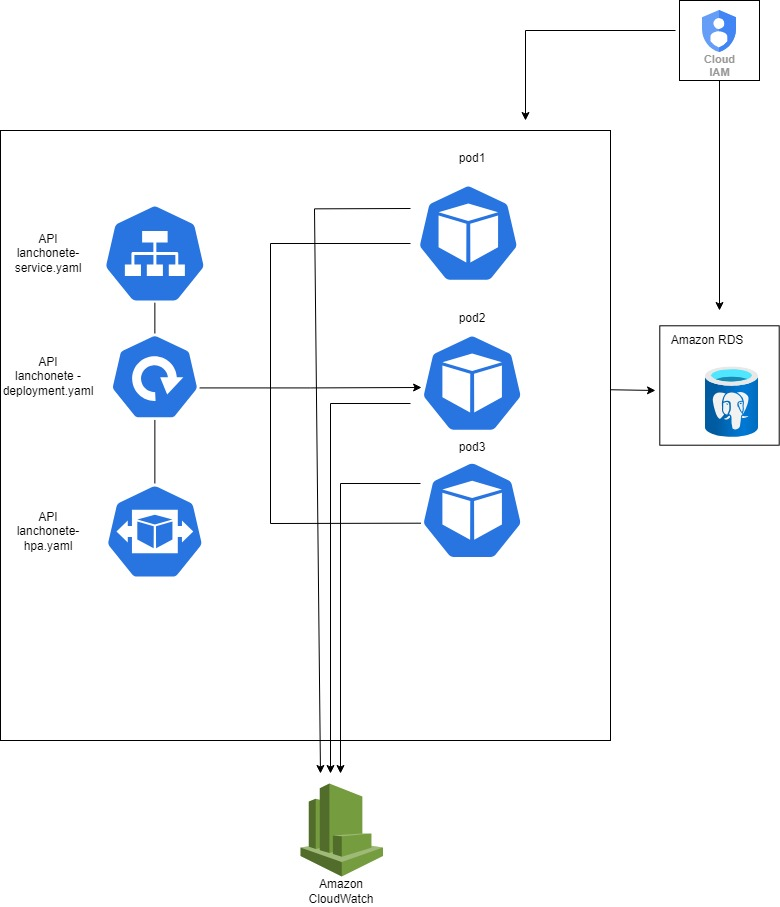
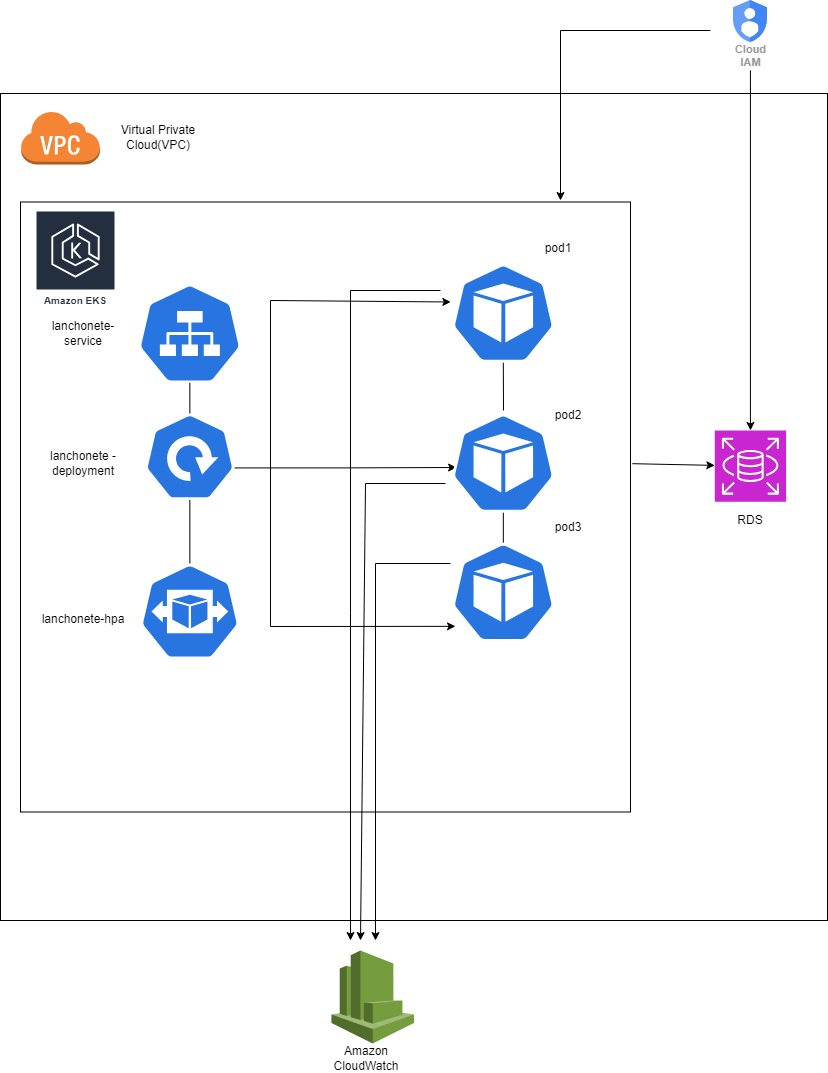
update readme com a explicação da arquitetura kubernetes

diff --git a/README.md b/README.md
@@ -70,10 +70,36 @@ Ordem de execução dos endpoints:
 
 ## Kubernetes
 
+A arquitetura local proposta em Kubernetes visa atender aos requisitos de escalabilidade, permitindo o aumento e diminuição de Pods de acordo com a demanda. Para isso, implementamos dois Deployments: um para a aplicação e outro para o banco de dados.
+
+Deployments:
+
+Deployment da Aplicação: Inicializa com 3 Pods. Projetado para escalar automaticamente conforme a carga. Deployment do Banco de Dados: Inicia com 1 Pod. Gerencia a persistência e integridade dos dados. Configuração do Horizontal Pod Autoscaler (HPA) Para otimizar a escalabilidade da aplicação, configuramos o Horizontal Pod Autoscaler (HPA) com as seguintes especificações:
+
+Métricas de Escalonamento:
+
+Mínimo de Pods: 2 Pods devem estar sempre disponíveis para garantir a continuidade do serviço. Máximo de Pods: O limite é de 10 Pods para evitar sobrecarga e garantir uso eficiente dos recursos. Critério de Escalonamento:
+
+Quando um Pod atingir 80% de consumo da CPU, o HPA acionará a criação de um novo Pod. Isso assegura que a aplicação mantenha um desempenho ideal mesmo em picos de demanda. Fluxo de Trabalho Monitoramento: O HPA monitora continuamente o uso de CPU dos Pods da aplicação. Ajuste Dinâmico: À medida que a demanda aumenta e um ou mais Pods atingem o limite de 80% de uso da CPU, novos Pods são criados automaticamente até o limite máximo de 10. Escalonamento para Baixa Demanda: Quando a demanda diminui, o HPA pode reduzir o número de Pods, mantendo sempre pelo menos 2 Pods em operação
+
+Arquitetura To Be Kubernetes na CLOUD
+
 Para rodar o projeto no Kubernetes, utilize o seguinte comando:
 
+![Arquitetura_Infra.jpg](Arquitetura_Infra.jpg)
+
 ```
+kubectl create namespace lanchonete
+
 kubectl apply -R -f manifests/
+
+kubectl apply -f https://github.com/kubernetes-sigs/metrics-server/releases/latest/download/components.yaml
+
+kubectl get pods -n lanchonete //lista os pods
+
+
+kubectl top pods -n lanchonete  //exibe métrica de consumo dos pods
+ 
 ```
 
 ## Arquitetura
